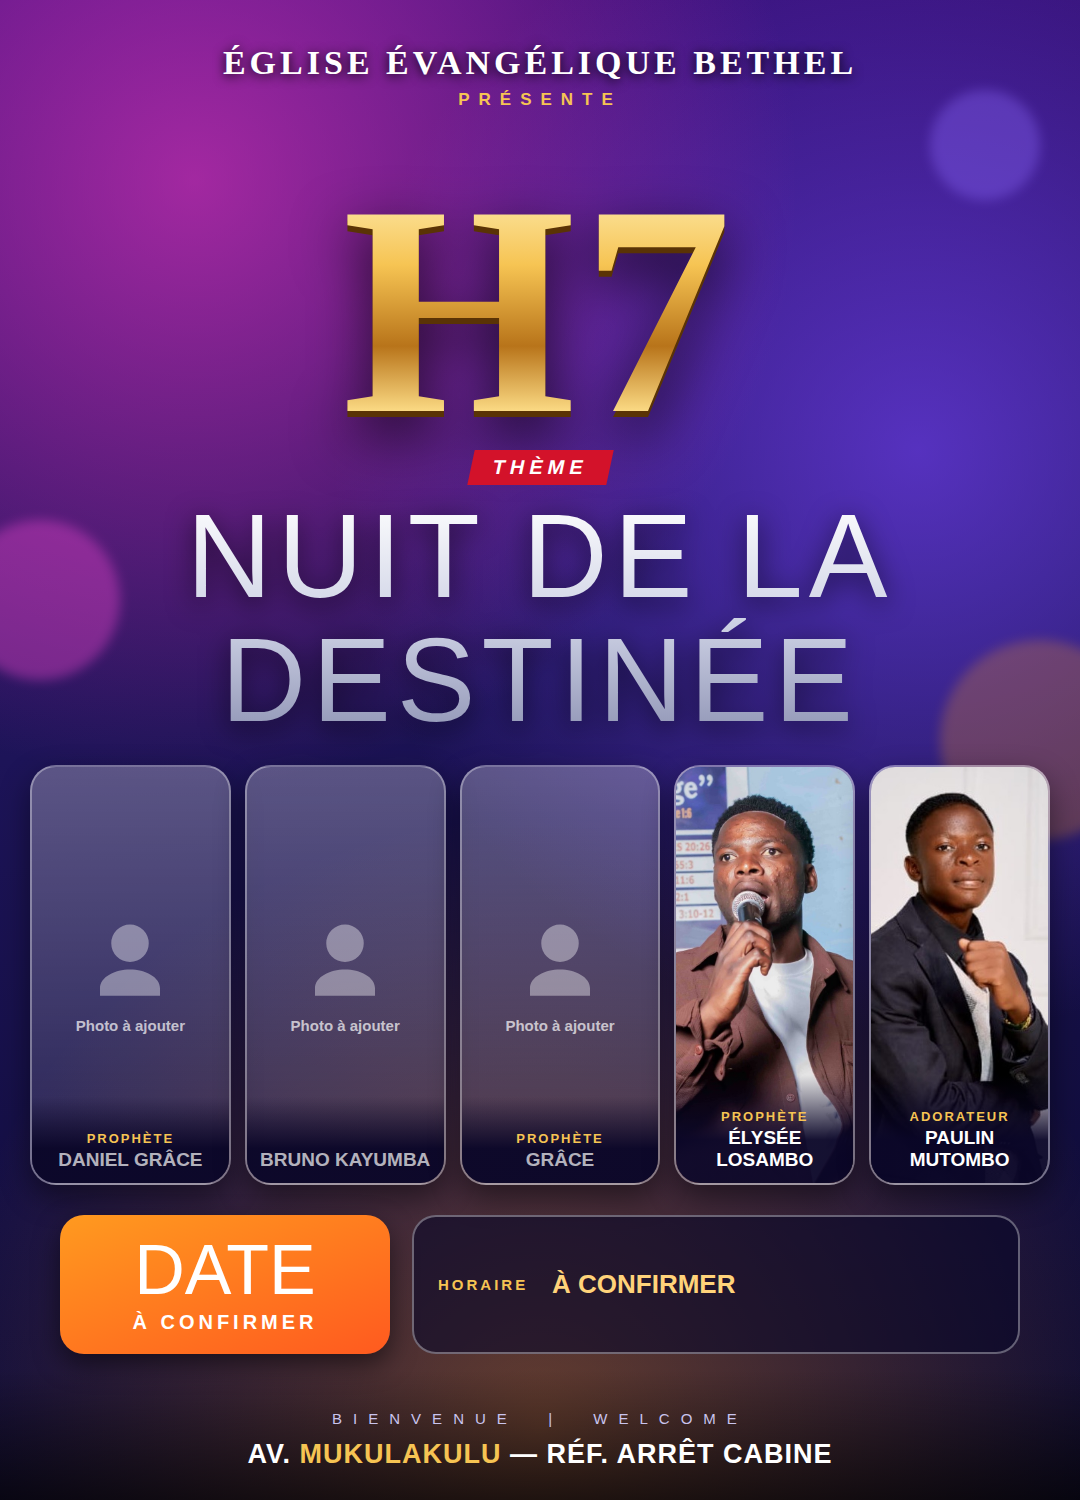
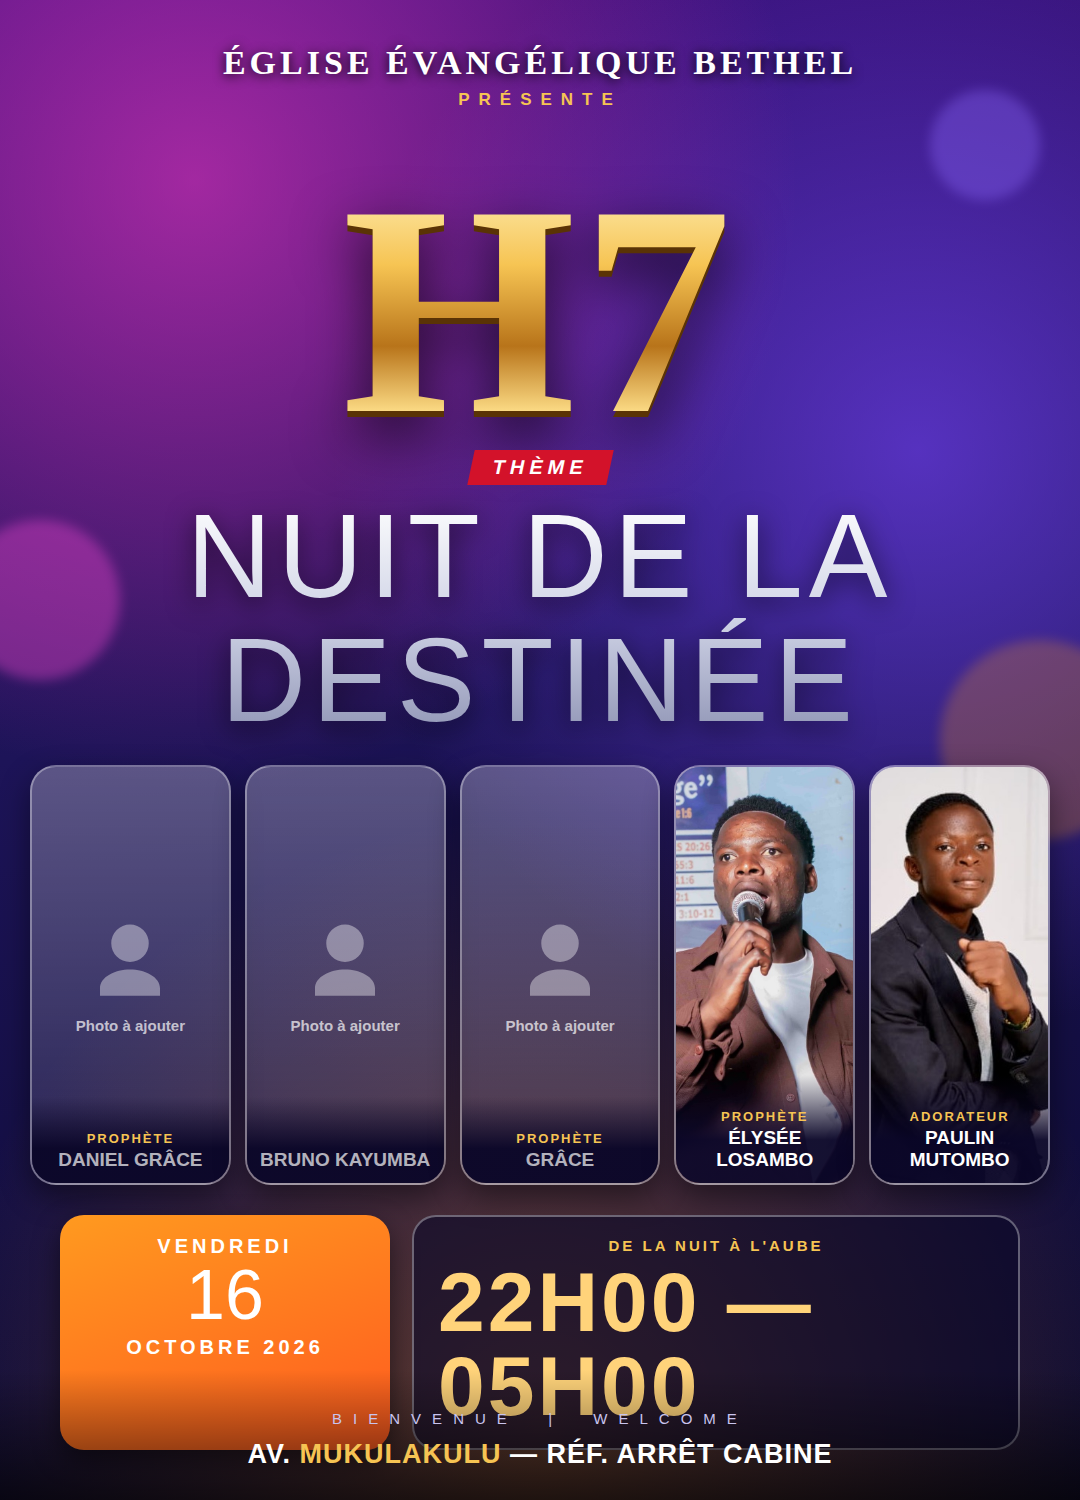
Affiche H7: ajoute la date (vendredi 16 octobre 2026) et l'horaire 22h-05h
Claude-Session: https://claude.ai/code/session_012AcEpDeUFy3WKvuh3uLzZA

Changed region(s): [[0.0306, 0.828, 0.825, 0.9813], [0.9167, 0.8893, 0.9472, 0.92]]

diff --git a/affiche/affiche.html b/affiche/affiche.html
@@ -73,9 +73,9 @@ body{background:#111}
   </div>
 
   <div class="info">
-    <div class="date"><div class="d tbd" style="color:#fff">DATE</div><div class="m">À CONFIRMER</div></div>
+    <div class="date"><div class="m" style="margin:0 0 2px">VENDREDI</div><div class="d">16</div><div class="m">OCTOBRE 2026</div></div>
     <div class="hours">
-      <div class="row"><i>HORAIRE</i><span class="tbd">À CONFIRMER</span></div>
+      <div class="row" style="justify-content:center;flex-direction:column;gap:6px"><i style="min-width:0">DE LA NUIT À L'AUBE</i><span style="font-family:'Bebas Neue',Impact,sans-serif;font-size:84px;line-height:1;letter-spacing:3px;color:#ffd37a">22H00 — 05H00</span></div>
     </div>
   </div>
 
